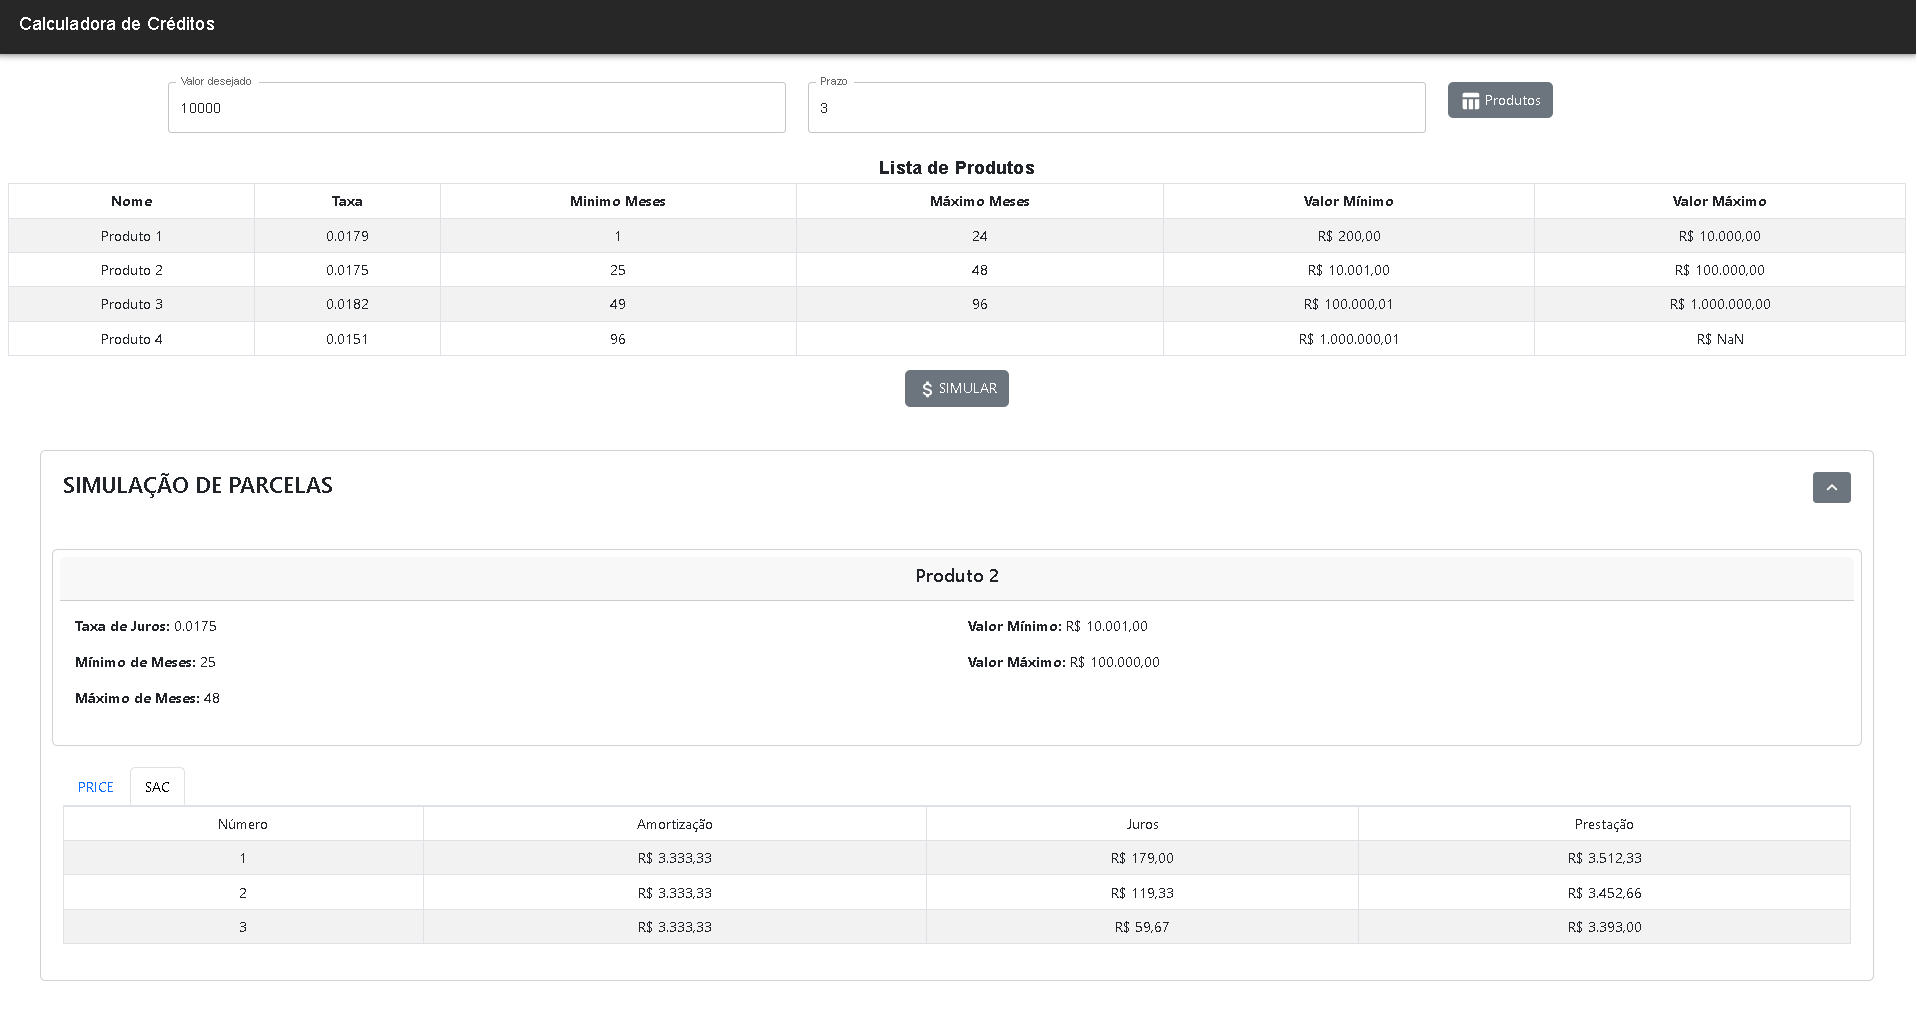
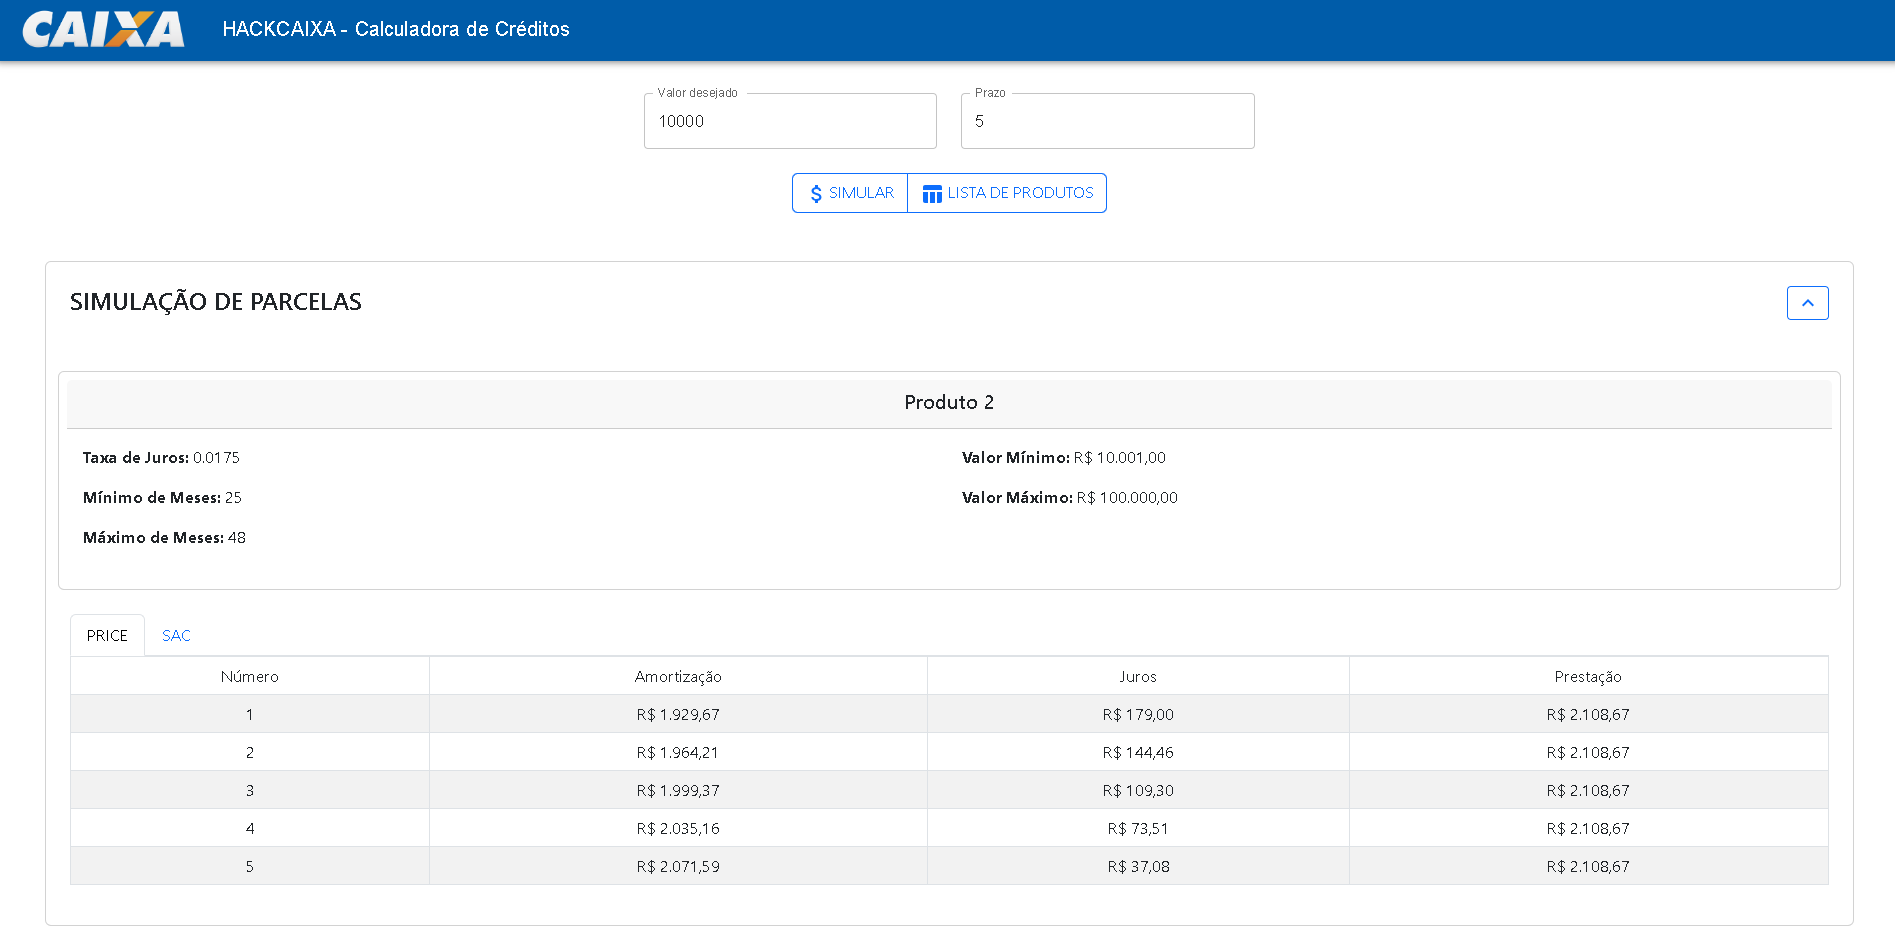
Layout Caixa

diff --git a/src/components/src/menu.jsx b/src/components/src/menu.jsx
@@ -2,15 +2,14 @@ import { ThemeProvider, createTheme } from '@mui/material/styles';
 import { AppBar, Toolbar, Typography } from "@mui/material";
 import { Box } from "@mui/system";
 import React from "react";
+import Marca  from '../../assets/img/CAIXA_volume_negativa.png'
 
 export default function Menu(params)
 {
     const darkTheme = createTheme({
         palette: {
-            mode: 'dark',
-            primary: {
-            main: '#1976d2',
-            },
+            mode: 'light',
+            primary: { main: '#005ca9'},
         },
     });
     return(
@@ -18,8 +17,11 @@ export default function Menu(params)
             <Box sx={{ flexGrow: 1 }} className="pb-5">
                 <AppBar color="primary">
                     <Toolbar>
-                        <Typography variant="h6" component="div" sx={{ flexGrow: 1 }}>
-                            Calculadora de Créditos
+                        <span style={{ paddingRight: "2%" }}>
+                             <img src={Marca} className="img-fluid" alt="Marca Caixa" style={{ height: "40px" }}/>
+                        </span>
+                        <Typography variant="h6" component="div" sx={{ flexGrow: 1 }}>                                
+                            HACKCAIXA - Calculadora de Créditos
                         </Typography>
                     </Toolbar>
                 </AppBar>

diff --git a/src/components/form/simula.jsx b/src/components/form/simula.jsx
@@ -80,7 +80,7 @@ export default function Simula()
                 <div className='col-md-4 text-center'>
                     <ButtonGroup>
                         <Button 
-                            variant='secondary' 
+                            variant='outline-primary' 
                             className='text-uppercase fs-bold'
                             onClick={ handleSimula }
                         >
@@ -88,7 +88,7 @@ export default function Simula()
                             Simular
                         </Button>
                         <Button 
-                            variant="secondary" 
+                            variant="outline-primary" 
                             aria-label="Tabela de Produtos"  
                             type="button" 
                             className='text-uppercase fs-bold'

diff --git a/src/components/parcelas/index.jsx b/src/components/parcelas/index.jsx
@@ -28,7 +28,7 @@ export default function Parcelas()
                         </Col>
                         <Col md="2" className="text-end">
                             <Button 
-                                variant="secondary" 
+                                variant="outline-primary" 
                                 size="sm"
                                 onClick={ handleExpandClick }
                                 data-bs-toggle="collapse" 
